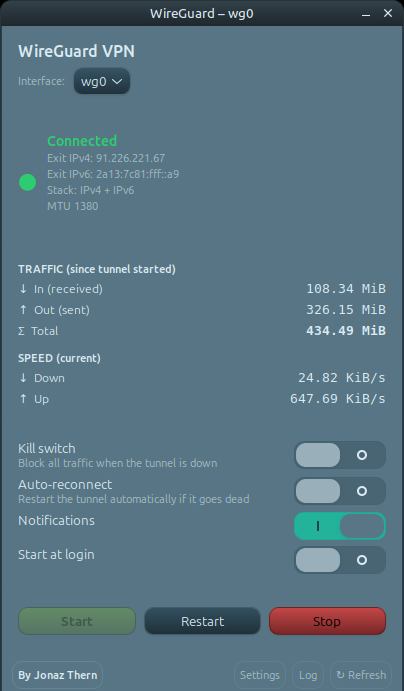
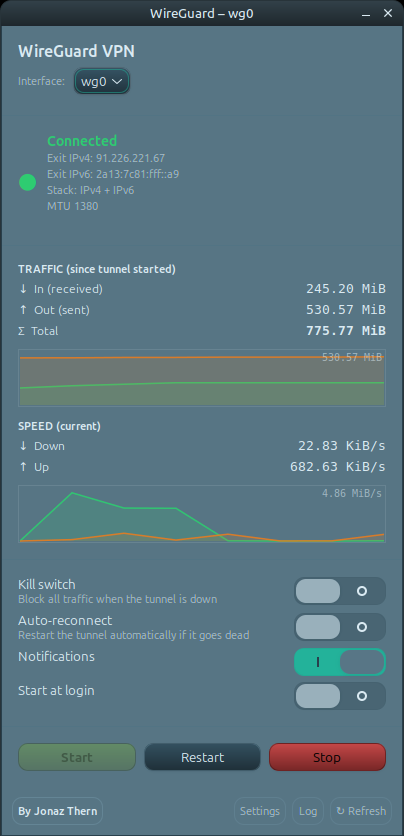
Add live Cairo graphs for traffic and speed
- Rolling history (last ~10 min) of cumulative traffic and down/up speed.
- Two theme-aware Gtk.DrawingArea sparkline graphs drawn with Cairo (no new
  dependencies): In/Down in green, Out/Up in orange, auto-scaling with a
  monospace scale label. History clears when the tunnel goes down.
- Update screenshot to show the graphs.

diff --git a/wg-gtk-client.py b/wg-gtk-client.py
@@ -27,6 +27,7 @@ import configparser
 import locale
 import os
 import shutil
+from collections import deque
 
 import gi
 gi.require_version("Gtk", "3.0")
@@ -468,13 +469,15 @@ class VPNWindow(Gtk.Window):
         self.vpn_ip = vpn_ip or settings.get("vpn_ip") or None
         self.vpn_ip6 = vpn_ip6 or settings.get("vpn_ip6") or None
         self.check_public_ip = check_public_ip
-        self.set_default_size(400, 560)
+        self.set_default_size(400, 700)
         self.set_resizable(False)
         self.set_border_width(0)
 
         self.busy = False
         self._prev = None           # (time, rx, tx)
         self._rates = (None, None)
+        self._spd_hist = deque(maxlen=120)   # (down_bps, up_bps) ~10 min
+        self._traf_hist = deque(maxlen=120)  # (rx_total, tx_total)
         self._dead_strikes = 0      # watchdog
         self._was_up = None
         self._log = []
@@ -566,13 +569,27 @@ class VPNWindow(Gtk.Window):
         self.tr_out = _row(traf, 2, _("↑  Out (sent)"), "traf-val")
         self.tr_total = _row(traf, 3, _("Σ  Total"), "traf-total")
 
+        self.traffic_area = Gtk.DrawingArea()
+        self.traffic_area.set_size_request(-1, 58)
+        self.traffic_area.set_hexpand(True)
+        self.traffic_area.set_margin_top(6)
+        self.traffic_area.connect("draw", self._draw_traffic)
+        traf.attach(self.traffic_area, 0, 4, 2, 1)
+
         sphead = Gtk.Label(label=_("SPEED (current)"))
         sphead.get_style_context().add_class("traf-head")
         sphead.set_xalign(0)
         sphead.set_margin_top(8)
-        traf.attach(sphead, 0, 4, 2, 1)
-        self.sp_down = _row(traf, 5, _("↓  Down"), "traf-val")
-        self.sp_up = _row(traf, 6, _("↑  Up"), "traf-val")
+        traf.attach(sphead, 0, 5, 2, 1)
+        self.sp_down = _row(traf, 6, _("↓  Down"), "traf-val")
+        self.sp_up = _row(traf, 7, _("↑  Up"), "traf-val")
+
+        self.speed_area = Gtk.DrawingArea()
+        self.speed_area.set_size_request(-1, 58)
+        self.speed_area.set_hexpand(True)
+        self.speed_area.set_margin_top(6)
+        self.speed_area.connect("draw", self._draw_speed)
+        traf.attach(self.speed_area, 0, 8, 2, 1)
         outer.pack_start(traf, False, False, 0)
         outer.pack_start(Gtk.Separator(), False, False, 0)
 
@@ -862,6 +879,9 @@ class VPNWindow(Gtk.Window):
                 w.set_text("–")
             self._prev = None
             self._rates = (None, None)
+            self._spd_hist.clear()
+            self._traf_hist.clear()
+            self._redraw_graphs()
             return
         rx, tx = t
         self.tr_in.set_text(human_bytes(rx))
@@ -879,6 +899,88 @@ class VPNWindow(Gtk.Window):
         down, upp = self._rates
         self.sp_down.set_text(human_rate(down))
         self.sp_up.set_text(human_rate(upp))
+        self._spd_hist.append((down or 0.0, upp or 0.0))
+        self._traf_hist.append((rx, tx))
+        self._redraw_graphs()
+
+    # ---------- live graphs (Cairo, no extra deps) ----------
+    def _redraw_graphs(self):
+        for a in (getattr(self, "traffic_area", None),
+                  getattr(self, "speed_area", None)):
+            if a is not None:
+                a.queue_draw()
+
+    def _theme_fg(self):
+        rgba = self.get_style_context().get_color(Gtk.StateFlags.NORMAL)
+        return (rgba.red, rgba.green, rgba.blue)
+
+    # series colors: In/Down green #2ecc71, Out/Up orange #e67e22
+    _C_DOWN = (0.18, 0.80, 0.44)
+    _C_UP = (0.90, 0.49, 0.13)
+
+    def _plot(self, area, cr, series, scale_label):
+        w = area.get_allocated_width()
+        h = area.get_allocated_height()
+        fr, fg, fb = self._theme_fg()
+        pad = 2
+        cr.set_source_rgba(fr, fg, fb, 0.12)
+        cr.set_line_width(1)
+        cr.rectangle(0.5, 0.5, w - 1, h - 1)
+        cr.stroke()
+
+        allvals = [v for data, _c in series for v in data]
+        maxv = max(allvals) if allvals else 0.0
+        label = scale_label(maxv)
+        if maxv > 0:
+            scale = maxv * 1.12
+            n = max((len(data) for data, _c in series), default=0)
+            if n >= 2:
+                def x(i):
+                    return pad + (w - 2 * pad) * i / (n - 1)
+
+                def y(v):
+                    return h - pad - (h - 2 * pad) * (v / scale)
+
+                for data, (rc, gc, bc) in series:
+                    if len(data) < 2:
+                        continue
+                    off = n - len(data)
+                    cr.move_to(x(off), h - pad)
+                    for i, v in enumerate(data):
+                        cr.line_to(x(off + i), y(v))
+                    cr.line_to(x(off + len(data) - 1), h - pad)
+                    cr.close_path()
+                    cr.set_source_rgba(rc, gc, bc, 0.16)
+                    cr.fill()
+                    cr.set_line_width(1.5)
+                    cr.set_source_rgba(rc, gc, bc, 0.9)
+                    cr.move_to(x(off), y(data[0]))
+                    for i, v in enumerate(data):
+                        cr.line_to(x(off + i), y(v))
+                    cr.stroke()
+
+        # scale label (top-right)
+        cr.set_source_rgba(fr, fg, fb, 0.55)
+        cr.select_font_face("monospace")
+        cr.set_font_size(10)
+        ext = cr.text_extents(label)
+        cr.move_to(w - ext.width - 4, 12)
+        cr.show_text(label)
+        return False
+
+    def _draw_speed(self, area, cr):
+        down = [d for d, u in self._spd_hist]
+        up = [u for d, u in self._spd_hist]
+        return self._plot(area, cr,
+                          [(down, self._C_DOWN), (up, self._C_UP)],
+                          lambda m: human_bytes(m) + "/s")
+
+    def _draw_traffic(self, area, cr):
+        rin = [r for r, t in self._traf_hist]
+        rout = [t for r, t in self._traf_hist]
+        return self._plot(area, cr,
+                          [(rin, self._C_DOWN), (rout, self._C_UP)],
+                          human_bytes)
 
     def _ip_worker(self):
         ip4 = fetch_public_ip(4)